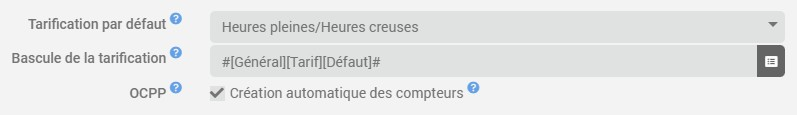
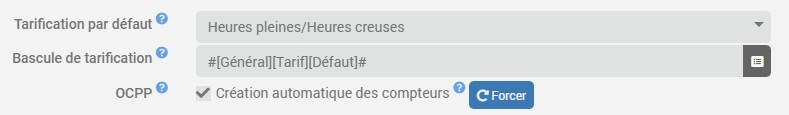
keep doc up to date

diff --git a/docs/fr_FR/index.md b/docs/fr_FR/index.md
@@ -2,9 +2,9 @@
 
 Le plugin **Compteur virtuel** permet de créer des compteurs énergétiques en kiloWatts-heure à partir d'indexs bruts *(Wh/kWh)* et/ou de puissances *(W/kW)*, que ce soit en tarif unique ou en heures pleines/heures creuses. Ce plugin permet également de créer des compteurs par utilisateur *(Personnalisé/OCPP)*.
 
->**INFORMATION**
+>**IMPORTANT**
 >
->Les informations relatives au protocole **OCPP** ne seront visibles que si le plugin est détecté sur la machine.
+>Les options relatives au protocole OCPP ne sont visibles que **si le plugin OCPP est installé**.
 
 # Configuration
 
@@ -16,6 +16,10 @@ Le plugin **Compteur virtuel** permet de créer des compteurs énergétiques en 
 - **Bascule de tarification**: En cas de tarification par défaut en heures pleines/heures creuses, sélectionner la commande info/binaire de bascule de tarification par défaut *(1=heures pleines/0=heures creuses)*.
 - **OCPP**:
   - **Création automatique des compteurs**: Cocher la case pour créer automatiquement les compteurs par utilisateur pour toute nouvelle transaction OCPP.
+
+  >**INFORMATION**
+  >
+  >Le bouton **"Forcer"** permet de créer instantanément tous les compteurs OCPP des utilisateurs autorisés sans devoir attendre une transaction.
 
 ## Configuration des équipements
 
@@ -52,7 +56,7 @@ Pour les autres, il faut cliquer sur le bouton **Gérer les commandes** de la se
 
 ## Commandes
 
-Les commandes suivantes sont créées en fonction de la tarification:
+Les commandes suivantes sont créées, en fonction de la tarification:
 
 - **Tarif unique**:
   - **Index** *(Info/numérique en kWh)*.
@@ -60,3 +64,9 @@ Les commandes suivantes sont créées en fonction de la tarification:
 - **Heures pleines/Heures creuses**:
   - **Index heures pleines** *(Info/numérique en kWh)*.
   - **Index heures creuses** *(Info/numérique en kWh)*.
+  - **Index total** *(Info/numérique en kWh)*.
+
+Et en fonction du type de compteur:
+
+- **Compteurs OCPP et compteurs personnalisés *(si données brutes en W ou kW)***:
+  - **Puissance** *(Info/numérique en W)*.